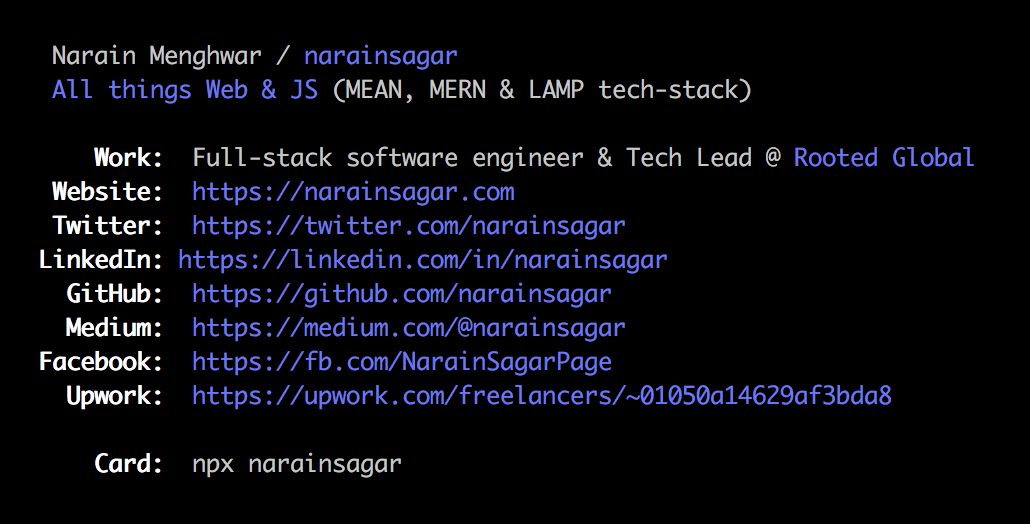
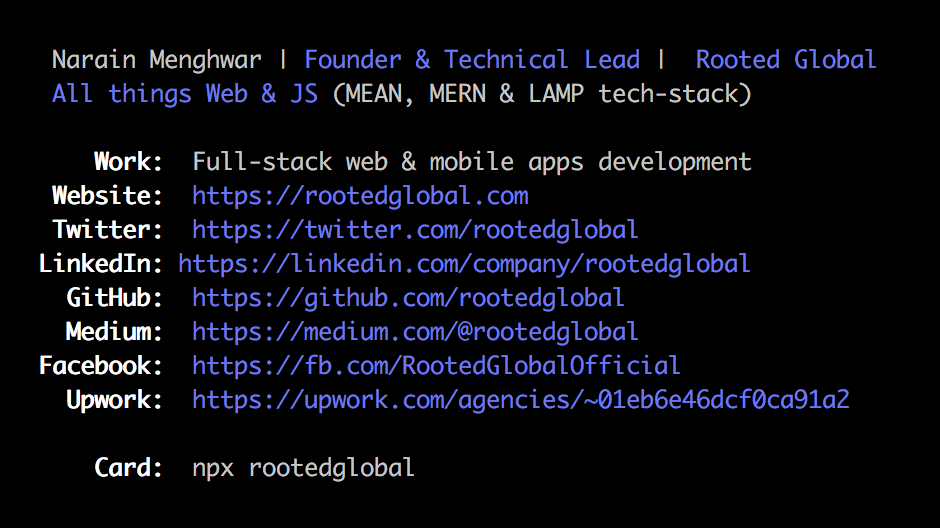
created card template

Changed region(s): [[0.0309, 0.2748, 0.9564, 0.7939], [0.0309, 0.0916, 0.9255, 0.2137], [0.0926, 0.855, 0.4319, 0.916]]

diff --git a/index.js b/index.js
@@ -2,23 +2,23 @@
 
 const { white, bold, blueBright } = require("colorette");
 
-const work = white(
-  `Full-stack software engineer & Tech Lead @ ${blueBright("Rooted Global")}`
-);
+const work = white(`Full-stack web & mobile apps development`);
 const tagline = `${blueBright("  All things Web & JS")} ${white(
   "(MEAN, MERN & LAMP tech-stack)"
 )}`;
-const website = blueBright("https://narainsagar.com");
-const twitter = blueBright("https://twitter.com/narainsagar");
-const linkedIn = blueBright("https://linkedin.com/in/narainsagar");
-const github = blueBright("https://github.com/narainsagar");
-const upwork = blueBright("https://upwork.com/freelancers/~01050a14629af3bda8");
-const medium = blueBright("https://medium.com/@narainsagar");
-const facebook = blueBright("https://fb.com/NarainSagarPage");
-const npx = white("npx narainsagar");
+const website = blueBright("https://rootedglobal.com");
+const twitter = blueBright("https://twitter.com/rootedglobal");
+const linkedIn = blueBright("https://linkedin.com/company/rootedglobal");
+const github = blueBright("https://github.com/rootedglobal");
+const upwork = blueBright("https://upwork.com/agencies/~01eb6e46dcf0ca91a2");
+const medium = blueBright("https://medium.com/@rootedglobal");
+const facebook = blueBright("https://fb.com/RootedGlobalOfficial");
+const npx = white("npx rootedglobal");
 
 const newline = "\n";
-const heading = `${white("  Narain Menghwar /")} ${blueBright("narainsagar")}`;
+const heading = `${white("  Narain Menghwar |")} ${blueBright(
+  "Founder & Technical Lead"
+)} ${white("|")} ${blueBright(" Rooted Global")}`;
 const websiteing = `${white(bold("  Website:"))}  ${website}`;
 const working = `${white(bold("     Work:"))}  ${work}`;
 const linkedining = `${white(bold(" LinkedIn:"))} ${linkedIn}`;
